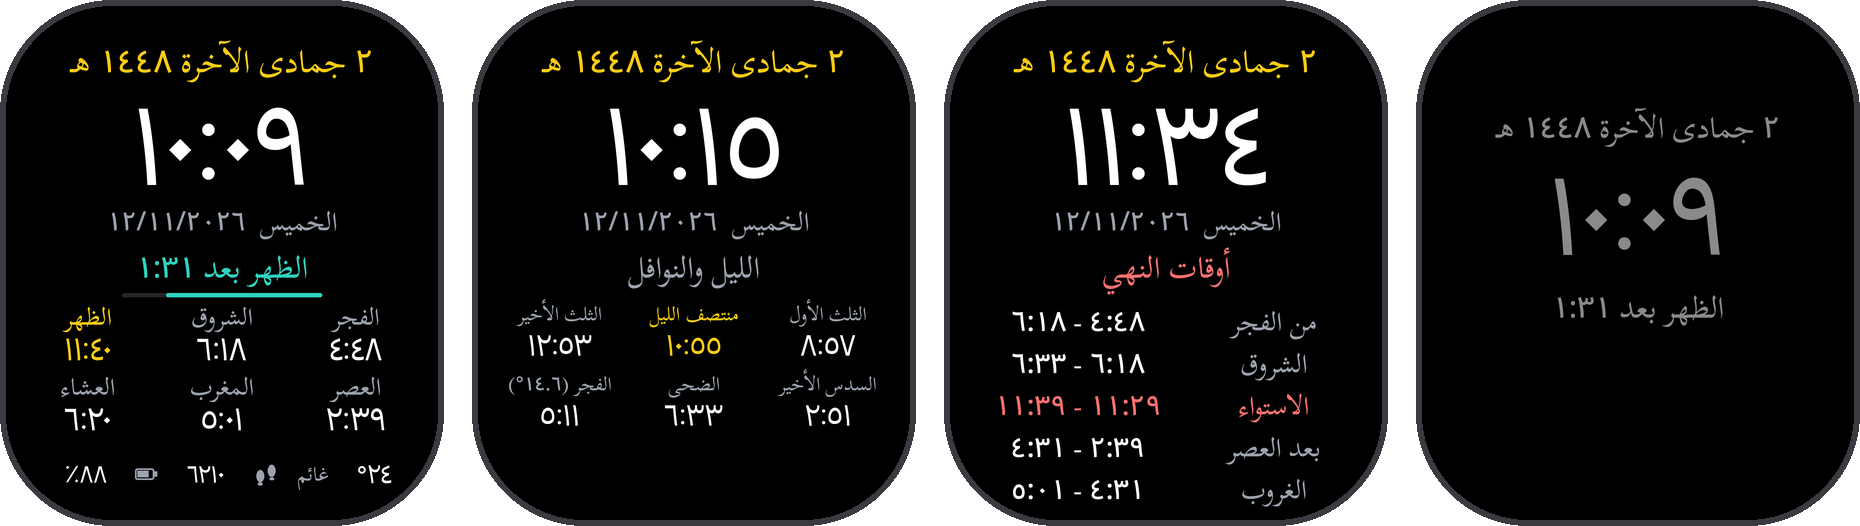
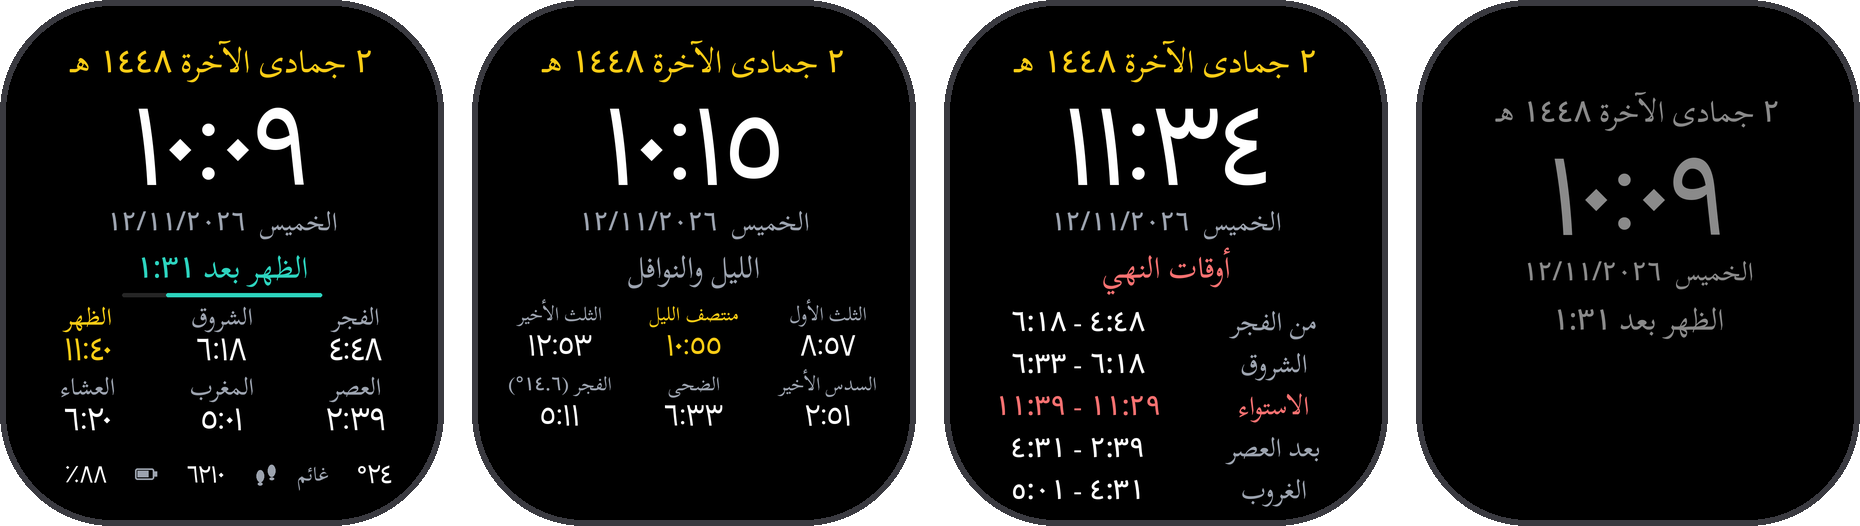
feat(watchface): show the Gregorian date on the always-on display

Changed region(s): [[0.8108, 0.3042, 0.9355, 0.6388], [0.8108, 0.1825, 0.9667, 0.2738], [0.9043, 0.5171, 0.9355, 0.5475]]

diff --git a/prayer-times-watchface/watchface/index.js b/prayer-times-watchface/watchface/index.js
@@ -280,9 +280,10 @@ WatchFace({
   buildAod() {
     // AMOLED always-on: few lit pixels, no fills.
     const L = show_level.ONLY_AOD
-    w.aodHijri = arText({ x: 16, y: 100, w: W - 32, h: 44, text_size: 30, color: C_AOD }, L)
-    w.aodTime = text({ x: 0, y: 150, w: W, h: 120, text_size: 112, color: C_AOD }, L)
-    w.aodNext = arText({ x: 16, y: 280, w: W - 32, h: 44, text_size: 30, color: C_AOD }, L)
+    w.aodHijri = arText({ x: 16, y: 84, w: W - 32, h: 44, text_size: 30, color: C_AOD }, L)
+    w.aodTime = text({ x: 0, y: 130, w: W, h: 120, text_size: 112, color: C_AOD }, L)
+    w.aodGreg = arText({ x: 16, y: 248, w: W - 32, h: 36, text_size: 26, color: C_AOD }, L)
+    w.aodNext = arText({ x: 16, y: 292, w: W - 32, h: 44, text_size: 30, color: C_AOD }, L)
   },
 
   refresh(full) {
@@ -321,7 +322,9 @@ WatchFace({
       }
       const wd = time.getDay() // 1..7, Monday = 1
       const fallback = state.fallbackLocation ? '  •  القاهرة' : ''
-      setText(w.greg, rtl(`${WEEKDAYS_AR[wd % 7]}  ${digits(d)}/${digits(m)}/${digits(y)}${fallback}`))
+      const greg = rtl(`${WEEKDAYS_AR[wd % 7]}  ${digits(d)}/${digits(m)}/${digits(y)}${fallback}`)
+      setText(w.greg, greg)
+      setText(w.aodGreg, greg)
     }
     const t = state.today
 

diff --git a/prayer-times-watchface/tools/gen-docs.py b/prayer-times-watchface/tools/gen-docs.py
@@ -61,9 +61,10 @@ def makruh(d, s):  # page 3: label on the right, range on the left
 
 def aod(d, s):  # watchface/index.js buildAod(): dim text only
     c = Canvas()
-    c.text((16, 100, W - 32, 44), d["hijri"], 30, AOD)
-    c.text((0, 150, W, 120), s["time"], 112, AOD, system=True)
-    c.text((16, 280, W - 32, 44), s["next"], 30, AOD)
+    c.text((16, 84, W - 32, 44), d["hijri"], 30, AOD)
+    c.text((0, 130, W, 120), s["time"], 112, AOD, system=True)
+    c.text((16, 248, W - 32, 36), d["greg"], 26, AOD)
+    c.text((16, 292, W - 32, 44), s["next"], 30, AOD)
     return c
 
 

diff --git a/prayer-times-watchface/README.md b/prayer-times-watchface/README.md
@@ -81,7 +81,7 @@ Time sensor ──► date + timezone ──► dayEvents() × yesterday / today
 
 **Pages:** all widgets are created up front. Switching pages only toggles visibility. A transparent `BUTTON` (`tap.png`) over the grid and extras row cycles the pages on tap.
 
-**Always-on display:** a separate `ONLY_AOD` layer shows the Hijri date, the time and the next-prayer line in dim grey with no fills (few lit pixels). It's updated by the same refresh as the normal layer.
+**Always-on display:** a separate `ONLY_AOD` layer shows the Hijri date, the time, the Gregorian date line and the next-prayer line in dim grey with no fills (few lit pixels). It's updated by the same refresh as the normal layer.
 
 **Weather:** the current temperature is drawn by the firmware (`TEXT_IMG` + `WEATHER_CURRENT`). Watchface JS can only read the daily forecast, which supplies the condition word.
 
